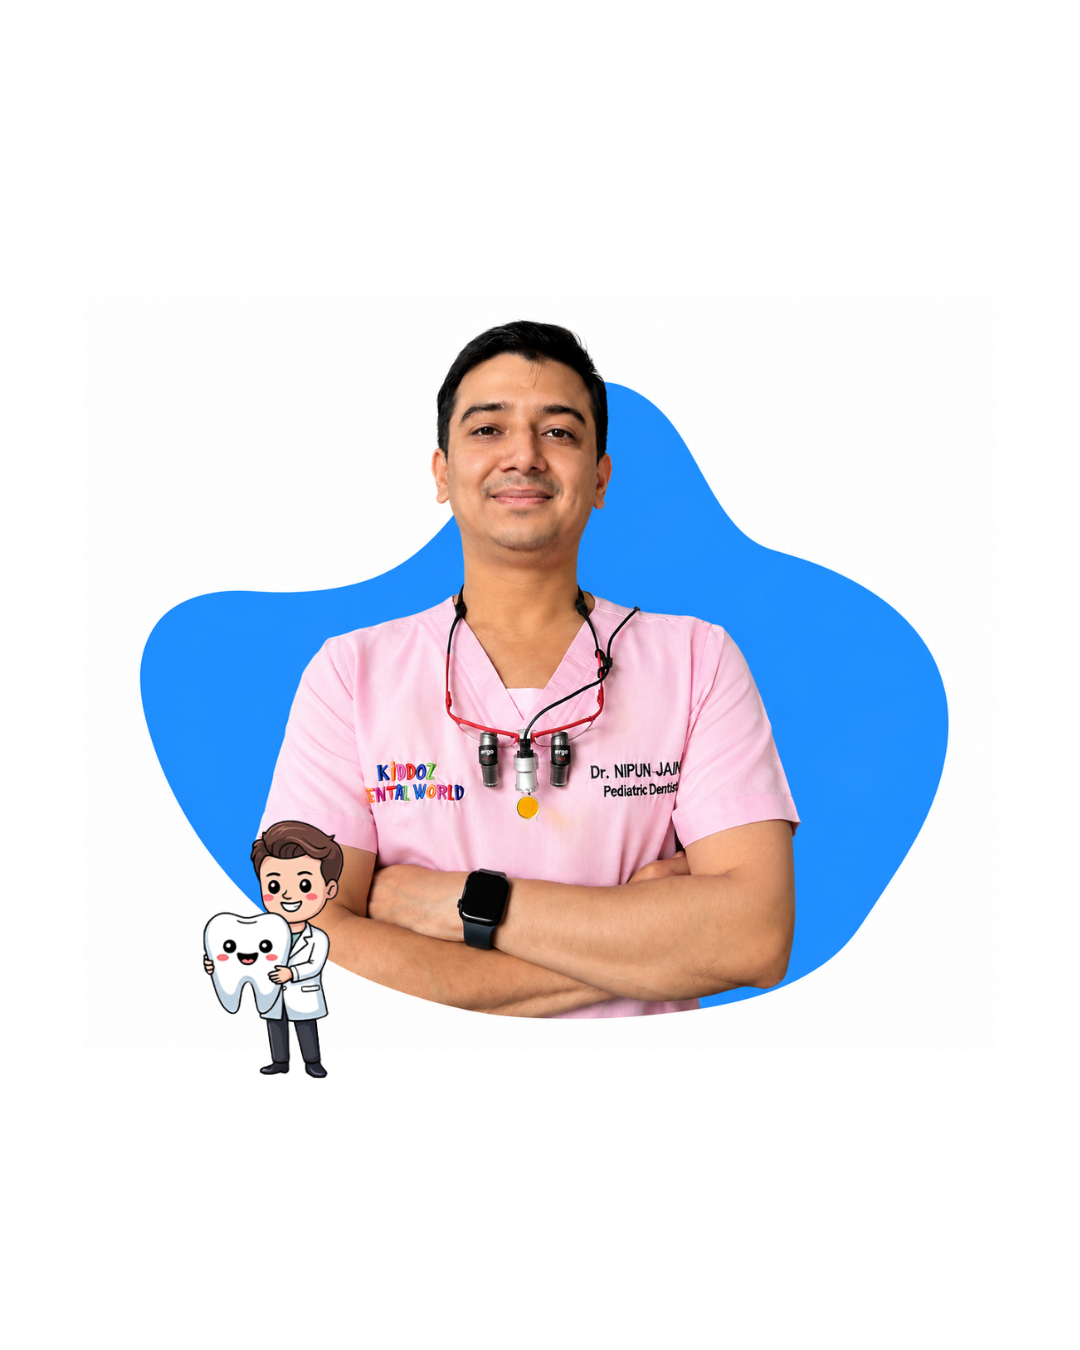
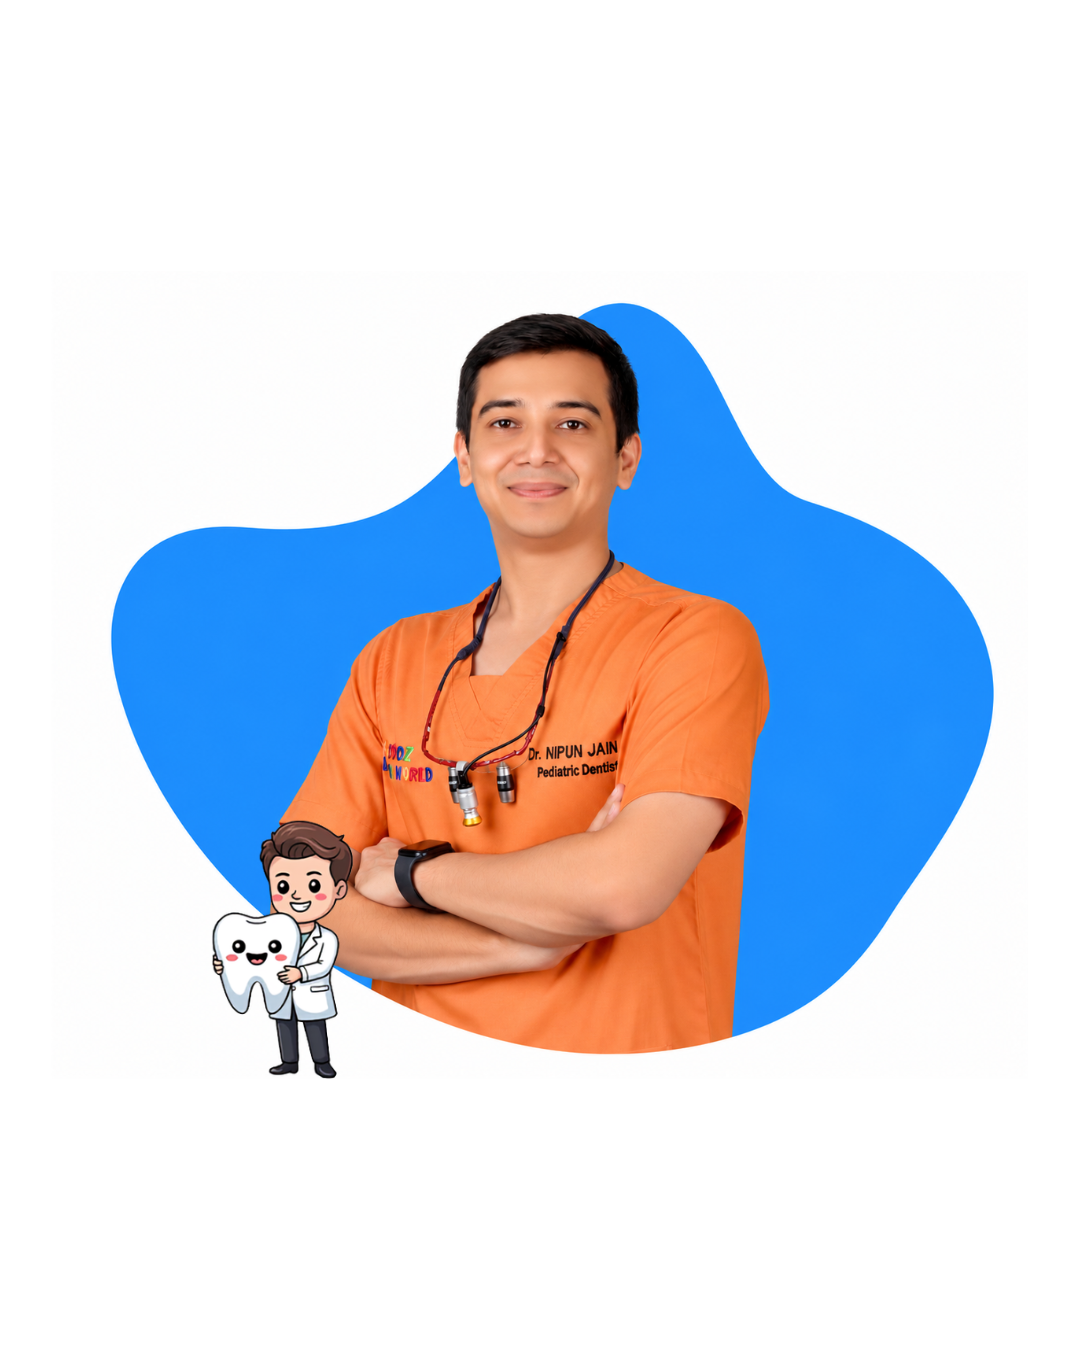
Update doctor photo, affiliation details, and social links
Replace doctor photo on meet-the-doctor.html, expand homepage affiliation bio with additional roles, fix society name to Indian Society of Pedodontics and Preventive Dentistry, and add YouTube/Instagram links to Meet the Doctor page.

Changed region(s): [[0.0917, 0.2178, 0.9472, 0.8089], [0.1528, 0.5911, 0.1833, 0.6222]]

diff --git a/meet-the-doctor.html b/meet-the-doctor.html
@@ -136,7 +136,7 @@
 
                         <div class="col-lg-6 col-md-12 col-sm-12 col-12">
                             <div class="doctor_detail_contetn">
-                                <img src="images/meet_the_docot.png" alt="Kiddoz">
+                                <img src="images/dr-nipun-jain.png" alt="Kiddoz">
                             </div>
                         </div>
 
@@ -229,7 +229,22 @@
                                             <p>Linkdin: <strong>Nipun jain</strong></p>
                                         </a>
                                     </li>
-
+                                    <li>
+                                        <svg xmlns="http://www.w3.org/2000/svg" viewBox="0 0 640 640" style="width: 20px;" >
+                                            <path fill="rgb(248,165,80)" d="M581.7 188.1C575.5 164.4 556.9 145.8 533.4 139.5C490.9 128 320.1 128 320.1 128C320.1 128 149.3 128 106.7 139.5C83.2 145.8 64.7 164.4 58.4 188.1C47 231 47 320.4 47 320.4C47 320.4 47 409.8 58.4 452.7C64.7 476.3 83.2 494.2 106.7 500.5C149.3 512 320.1 512 320.1 512C320.1 512 490.9 512 533.5 500.5C557 494.2 575.5 476.3 581.8 452.7C593.2 409.8 593.2 320.4 593.2 320.4C593.2 320.4 593.2 231 581.8 188.1zM264.2 401.6L264.2 239.2L406.9 320.4L264.2 401.6z"/>
+                                        </svg>
+                                        <a href="https://www.youtube.com/@KiddozDentalWorld" target="_blank">
+                                            <p>Youtube: <strong>KiddozDentalWorld</strong></p>
+                                        </a>
+                                    </li>
+                                    <li>
+                                        <svg xmlns="http://www.w3.org/2000/svg" viewBox="0 0 640 640"style="width: 20px;">
+                                            <path fill="rgb(248,165,80)" d="M320.3 205C256.8 204.8 205.2 256.2 205 319.7C204.8 383.2 256.2 434.8 319.7 435C383.2 435.2 434.8 383.8 435 320.3C435.2 256.8 383.8 205.2 320.3 205zM319.7 245.4C360.9 245.2 394.4 278.5 394.6 319.7C394.8 360.9 361.5 394.4 320.3 394.6C279.1 394.8 245.6 361.5 245.4 320.3C245.2 279.1 278.5 245.6 319.7 245.4zM413.1 200.3C413.1 185.5 425.1 173.5 439.9 173.5C454.7 173.5 466.7 185.5 466.7 200.3C466.7 215.1 454.7 227.1 439.9 227.1C425.1 227.1 413.1 215.1 413.1 200.3zM542.8 227.5C541.1 191.6 532.9 159.8 506.6 133.6C480.4 107.4 448.6 99.2 412.7 97.4C375.7 95.3 264.8 95.3 227.8 97.4C192 99.1 160.2 107.3 133.9 133.5C107.6 159.7 99.5 191.5 97.7 227.4C95.6 264.4 95.6 375.3 97.7 412.3C99.4 448.2 107.6 480 133.9 506.2C160.2 532.4 191.9 540.6 227.8 542.4C264.8 544.5 375.7 544.5 412.7 542.4C448.6 540.7 480.4 532.5 506.6 506.2C532.8 480 541 448.2 542.8 412.3C544.9 375.3 544.9 264.5 542.8 227.5zM495 452C487.2 471.6 472.1 486.7 452.4 494.6C422.9 506.3 352.9 503.6 320.3 503.6C287.7 503.6 217.6 506.2 188.2 494.6C168.6 486.8 153.5 471.7 145.6 452C133.9 422.5 136.6 352.5 136.6 319.9C136.6 287.3 134 217.2 145.6 187.8C153.4 168.2 168.5 153.1 188.2 145.2C217.7 133.5 287.7 136.2 320.3 136.2C352.9 136.2 423 133.6 452.4 145.2C472 153 487.1 168.1 495 187.8C506.7 217.3 504 287.3 504 319.9C504 352.5 506.7 422.6 495 452z"/>
+                                        </svg>
+                                        <a href="https://www.instagram.com/kiddozdentalworld/" target="_blank">
+                                            <p>Instagram: <strong>kiddozdentalworld</strong></p>
+                                        </a>
+                                    </li>
                                 </ul>
                             </div>
                         </div>
@@ -381,7 +396,7 @@
                                     data-bs-parent="#accordionExample">
                                     <div class="accordion-body">
                                         <ul>
-                                            <li>• Life Member – Indian Society of Pediatric & Preventive Dentistry</li>
+                                            <li>• Life Member – Indian Society of Pedodontics and Preventive Dentistry</li>
                                             <li>• Life Member – Indian Society of Dental Traumatology</li>
                                         </ul>
                                     </div>

diff --git a/index.html b/index.html
@@ -188,7 +188,7 @@
             </div>
           </div>
           <div class="col-lg-6 col-md-12 col-sm-12 col-12">
-            <div class="doctor_detail_contetn image_animation"> <img src="images/dr-nipun-jain.png" alt="Kiddoz"> </div>
+            <div class="doctor_detail_contetn image_animation"> <img src="images/dr-nipun-jain.png?r=1" alt="Kiddoz"> </div>
           </div>
         </div>
         <div class="kidd_slider_gallery">
@@ -227,9 +227,13 @@
                                 data-aos="fade-up" data-aos-duration="1600" data-aos-delay="200">
               <div class="icon-choose"> <img src="images/trust2.png" alt="Kiddoz"> </div>
               <h4>Hospital & Academic Affiliation</h4>
-              <p>Ex-Assistant Professor and Life Member of the
-                Indian Society of Pediatric & Preventive Dentistry and the Indian Society of Dental
-                Traumatology.</p>
+              <p>
+                Ex assistant professor, Udaipur. <br />
+                Pediatric Dentist - Kiddoz Dental World <br />
+                Pediatric dentist @ DMICC, Vidyadhar nagar. <br />
+                Life member - Indian society of pedodontics and preventive dentistry. <br />
+                Life member - Indian society of Dental Traumatology
+              </p>
             </div>
           </div>
           <div class="col-lg-4 col-md-4 col-sm-12 col-12">
